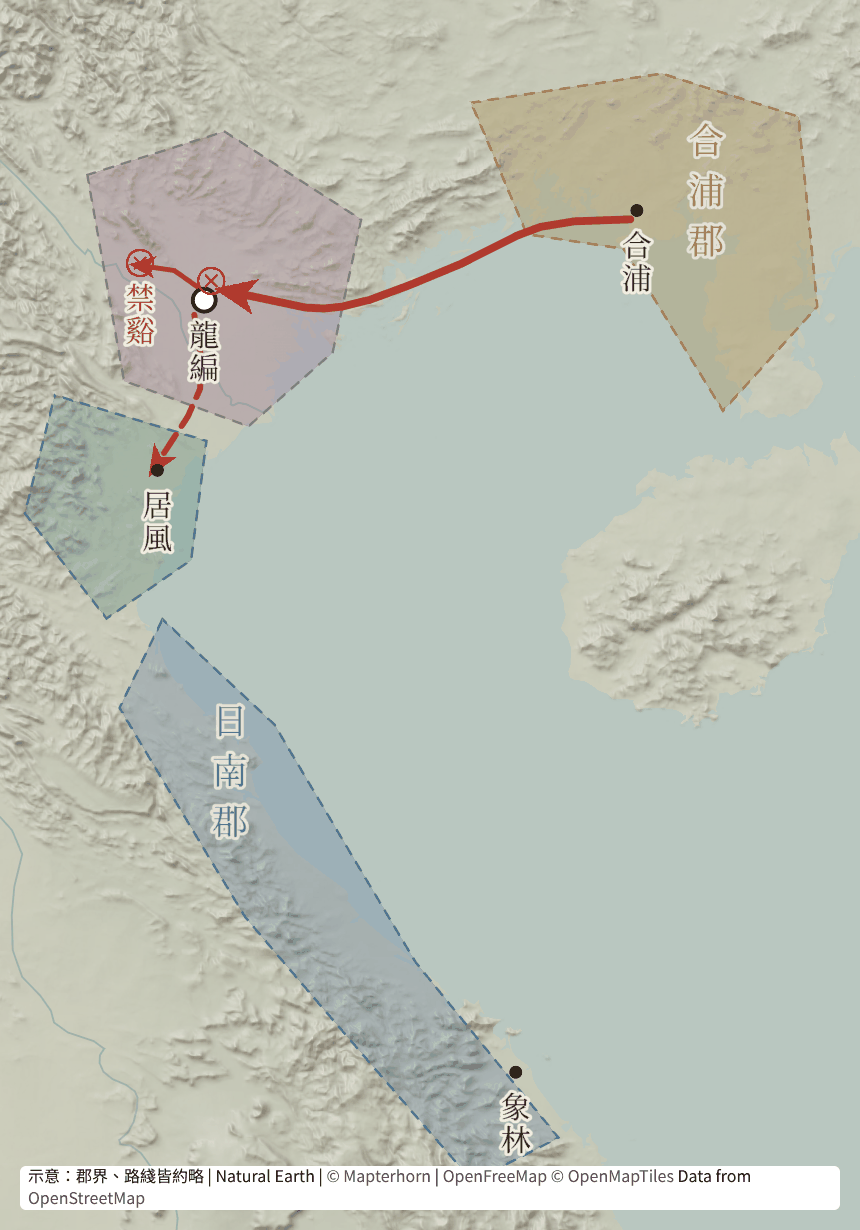
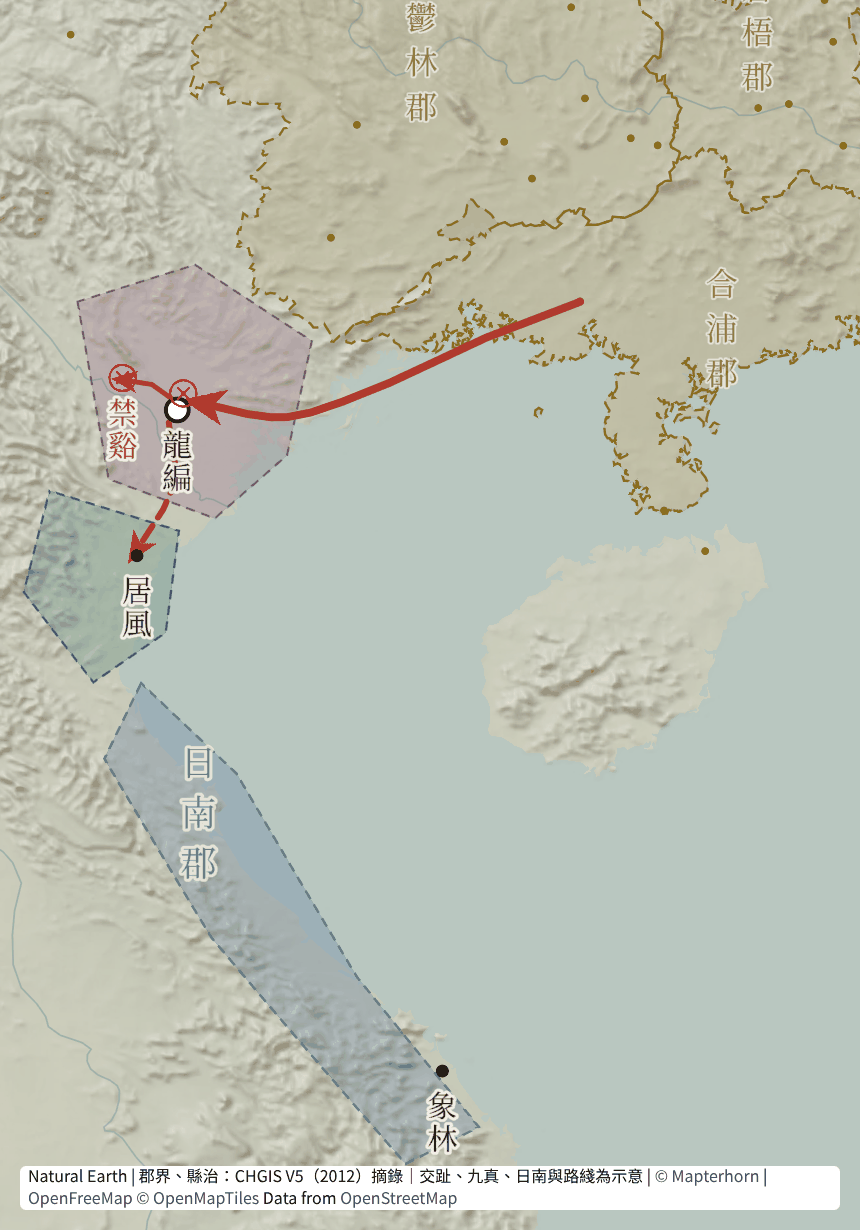
電子地圖：可疊 CHGIS 歷代郡界、縣治；南徼圖用 CHGIS V5 的東漢郡界

diff --git a/web/地圖/map.js b/web/地圖/map.js
@@ -192,16 +192,44 @@ function addOverlays(map, spec) {
       paint: { "raster-opacity": r.opacity ?? 0.75, "raster-fade-duration": 0 },
     });
   });
-  (spec.geojson ?? []).forEach((url, i) => {
-    map.addSource(`gj${i}`, { type: "geojson", data: url });
+  // 現成的 GeoJSON（如 CHGIS 摘錄）：面畫成淡色區、虛綫邊，點畫小圓點；都照 label 竪排寫名。
+  // 每項可寫網址，或 {url, color}。
+  (spec.geojson ?? []).forEach((g, i) => {
+    const { url, color = "#8a6d1f" } = typeof g === "string" ? { url: g } : g;
+    const c = ["coalesce", ["get", "color"], color];
+    const id = `gj${i}`;
+    const poly = ["any", ["==", ["geometry-type"], "Polygon"], ["==", ["geometry-type"], "MultiPolygon"]];
+    // 郡名寫在 kind 為 pref-label 的點上；沒有這種點的數據就寫在面上。
+    const isLabel = ["==", ["get", "kind"], "pref-label"];
+    const point = ["all", ["==", ["geometry-type"], "Point"], ["!", isLabel]];
+    map.addSource(id, { type: "geojson", data: url });
     map.addLayer({
-      id: `gj${i}-fill`, type: "fill", source: `gj${i}`,
-      filter: ["==", ["geometry-type"], "Polygon"],
-      paint: { "fill-color": ["coalesce", ["get", "color"], "#c9a227"], "fill-opacity": ["coalesce", ["get", "opacity"], 0.25] },
+      id: `${id}-fill`, type: "fill", source: id, filter: poly,
+      paint: { "fill-color": c, "fill-opacity": ["coalesce", ["get", "opacity"], 0.12] },
     });
     map.addLayer({
-      id: `gj${i}-line`, type: "line", source: `gj${i}`,
-      paint: { "line-color": ["coalesce", ["get", "color"], "#8a6d1f"], "line-width": ["coalesce", ["get", "width"], 1.2] },
+      id: `${id}-line`, type: "line", source: id, filter: ["!=", ["geometry-type"], "Point"],
+      paint: { "line-color": c, "line-width": ["coalesce", ["get", "width"], 1.2], "line-dasharray": [4, 2] },
+    });
+    map.addLayer({
+      id: `${id}-pt`, type: "circle", source: id, filter: point,
+      paint: { "circle-radius": 2.2, "circle-color": c },
+    });
+    map.addLayer({
+      id: `${id}-pt-label`, type: "symbol", source: id, filter: point, minzoom: 6.5,
+      layout: {
+        "text-field": ["get", "label"], "text-font": ["Noto Sans Regular"], "text-size": 11,
+        "text-writing-mode": ["vertical"], "text-anchor": "left", "text-offset": [0.5, 0],
+      },
+      paint: { "text-color": c, "text-halo-color": "rgba(248,244,232,0.9)", "text-halo-width": 1 },
+    });
+    map.addLayer({
+      id: `${id}-label`, type: "symbol", source: id, filter: ["any", isLabel, poly],
+      layout: {
+        "text-field": ["get", "label"], "text-font": ["Noto Sans Regular"], "text-size": 16,
+        "text-writing-mode": ["vertical"], "text-letter-spacing": 0.4,
+      },
+      paint: { "text-color": c, "text-opacity": 0.85, "text-halo-color": "rgba(248,244,232,0.8)", "text-halo-width": 1 },
     });
   });
   for (const k of ["areas", "lines", "heads", "places"]) map.addSource(k, { type: "geojson", data: d[k] });

diff --git a/tools/map/chgis.py b/tools/map/chgis.py
@@ -1,0 +1,119 @@
+"""從 CHGIS V5 時間序列圖層摘出某一年、某一範圍的府州界與縣治，存成地圖用的 GeoJSON。
+
+數據要自己從 Harvard Dataverse 下載（doi:10.7910/DVN/M7WEFY），解壓到一個目錄：
+  v5_time_pref_pgn_utf.*   府州（郡）界
+  v5_time_cnty_pts_utf.*   縣治
+
+用法：
+  uv run --with pyshp --with pyproj --with shapely python tools/map/chgis.py \\
+      目錄 年 西 南 東 北 輸出.geojson [--simplify 0.005]
+
+年份用公元（公元前寫負數）。輸出的要素帶 label、kind（pref / cnty）、beg、end 屬性；
+每個府州另有一個 kind 為 pref-label 的點，地圖頁在那裏竪排寫名；郡界畫成虛綫區。
+"""
+
+import argparse
+import json
+from pathlib import Path
+
+import shapefile
+from pyproj import CRS, Transformer
+import shapely
+from shapely.geometry import mapping, shape
+
+CITATION = (
+    'CHGIS, Version 5. (c) Fairbank Center for Chinese Studies and the Institute for '
+    "Chinese Historical Geography at Fudan University, 2012."
+)
+
+
+def reader(d: Path, stem: str):
+    return shapefile.Reader(str(d / stem), encoding="utf-8")
+
+
+def to_wgs84(d: Path, stem: str):
+    crs = CRS.from_wkt((d / f"{stem}.prj").read_text())
+    return Transformer.from_crs(crs, "EPSG:4326", always_xy=True).transform
+
+
+def main():
+    ap = argparse.ArgumentParser()
+    ap.add_argument("dir", type=Path)
+    ap.add_argument("year", type=int)
+    ap.add_argument("bbox", type=float, nargs=4, metavar=("W", "S", "E", "N"))
+    ap.add_argument("out", type=Path)
+    ap.add_argument("--simplify", type=float, default=0.005, help="化簡容差（度）")
+    a = ap.parse_args()
+    w, s, e, n = a.bbox
+    inside = lambda x, y: w <= x <= e and s <= y <= n
+    alive = lambda r: r["BEG_YR"] <= a.year <= r["END_YR"]
+    feats = []
+
+    stem = "v5_time_pref_pgn_utf"
+    proj = to_wgs84(a.dir, stem)
+    r = reader(a.dir, stem)
+    for sr in r.iterShapeRecords():
+        rec = sr.record
+        if not alive(rec) or not inside(rec["X_COORD"], rec["Y_COORD"]):
+            continue
+        if rec["TYPE_CH"] == "非政区国土":
+            continue
+        g = shapely.transform(shape(sr.shape.__geo_interface__), lambda x, y: proj(x, y), interleaved=False)
+        g = g.simplify(a.simplify, preserve_topology=True)
+        props = {
+            "label": rec["NAME_FT"],
+            "kind": "pref",
+            "beg": int(rec["BEG_YR"]),
+            "end": int(rec["END_YR"]),
+        }
+        # 面上不放 label（名字寫在下面的代表點上），原名留在 name。
+        poly_props = {k: v for k, v in props.items() if k != "label"} | {"name": props["label"]}
+        feats.append({"type": "Feature", "geometry": mapping(g), "properties": poly_props})
+        # 名字只寫一處：最大一塊裏的代表點（多塊的郡逐塊寫名會重複）。
+        big = max(getattr(g, "geoms", [g]), key=lambda p: p.area)
+        feats.append({
+            "type": "Feature",
+            "geometry": mapping(big.representative_point()),
+            "properties": {**props, "kind": "pref-label"},
+        })
+
+    stem = "v5_time_cnty_pts_utf"
+    r = reader(a.dir, stem)
+    for rec in r.iterRecords():
+        if alive(rec) and inside(rec["X_COORD"], rec["Y_COORD"]):
+            feats.append({
+                "type": "Feature",
+                "geometry": {"type": "Point", "coordinates": [rec["X_COORD"], rec["Y_COORD"]]},
+                "properties": {
+                    "label": rec["NAME_FT"],
+                    "kind": "cnty",
+                    "beg": int(rec["BEG_YR"]),
+                    "end": int(rec["END_YR"]),
+                },
+            })
+
+    def rnd(o):
+        if isinstance(o, float):
+            return round(o, 4)
+        if isinstance(o, (list, tuple)):
+            return [rnd(x) for x in o]
+        if isinstance(o, dict):
+            return {k: rnd(v) for k, v in o.items()}
+        return o
+
+    out = {
+        "type": "FeatureCollection",
+        "attribution": CITATION,
+        "changes": (
+            f"摘取公元 {a.year} 年存在、位於 {w},{s}–{e},{n} 內的府州界與縣治；"
+            f"轉為 WGS84 經緯度，邊界以 {a.simplify}° 容差化簡，坐標取四位小數。"
+        ),
+        "features": rnd(feats),
+    }
+    a.out.write_text(json.dumps(out, ensure_ascii=False, separators=(",", ":")) + "\n")
+    kinds = [f["properties"]["kind"] for f in feats]  # pref-label 不計
+    print(f"{a.out}: 府州 {kinds.count('pref')}，縣 {kinds.count('cnty')}")
+
+
+if __name__ == "__main__":
+    main()

diff --git a/docs/地圖.md b/docs/地圖.md
@@ -69,10 +69,26 @@
 
 `"geojson": ["東漢郡界.geojson"]`：历代界线等现成数据直接叠上。各要素的 `color`、`opacity`、`width` 属性决定样式。
 
+### 历代政区：CHGIS
+
+`tools/map/chgis.py` 从 CHGIS V5 摘出某一年、某一范围的郡（府州）界和县治，存成上面说的 GeoJSON：
+
+```sh
+uv run --with pyshp --with pyproj --with shapely python tools/map/chgis.py \
+    CHGIS目录 42 104 15 116 26 web/地圖/南徼圖-CHGIS.geojson
+```
+
+- 参数依次是：数据目录、公元年份（公元前写负数）、西南东北范围、输出文件。
+- 数据从 Harvard Dataverse 的 CHGIS V5 Shapefiles（doi:10.7910/DVN/M7WEFY，标为 CC0）下载，解压 `v5_time_pref_pgn_utf.zip`、`v5_time_cnty_pts_utf.zip` 到同一目录。原始数据不进仓库，只放摘出的那一小块。
+- 郡界画成淡色区、虚线边，郡名写一处；县治是小圆点，放大到 6.5 级以上才写名。
+- 在 `.json` 里写 `"geojson": [{ "url": "南徼圖-CHGIS.geojson", "color": "#8a6d1f" }]`。
+- 出处要写进 `source`，改动记在 `地圖/NOTICE`。
+- CHGIS 只到今天中国境内；越南等地（如交趾、九真、日南）没有数据，只能另画示意。早于 1350 年的郡界也有缺漏，用前先查。
+
 ## 静态替补图
 
 改了 `.json` 之后，替补图要重新截一张：在浏览器里打开 `地圖/?圖=名&still`（不显示按钮），截下与插图框同样大小（版式一览里是 430×615）的画面，存成 `地圖/名.png`。
 
 ## 数据来源
 
-底图、地形、水系来自 OpenFreeMap（OpenStreetMap 数据）、Natural Earth、Mapterhorn，地图库用 MapLibre GL，出处都显示在地图右下角。
+底图、地形、水系来自 OpenFreeMap（OpenStreetMap 数据）、Natural Earth、Mapterhorn，历代政区来自 CHGIS V5，地图库用 MapLibre GL，出处都显示在地图右下角。
